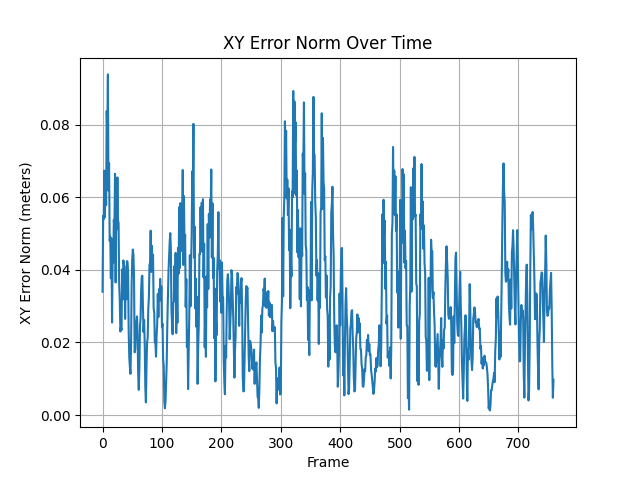
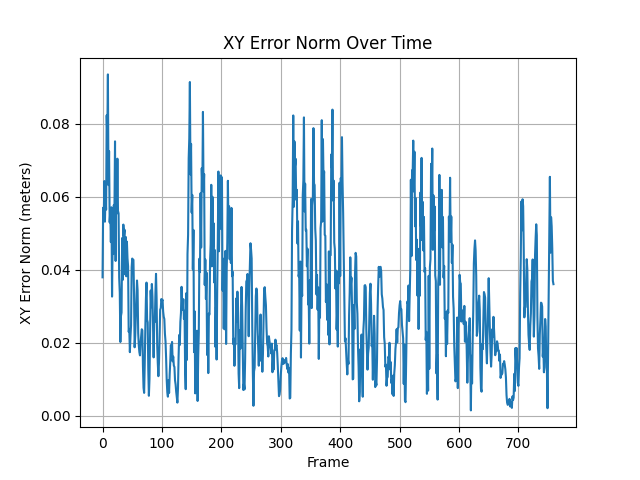
best param

Changed region(s): [[0.0625, 0.1875, 0.9062, 0.875], [0.0625, 0.375, 0.125, 0.4375]]

diff --git a/source/ros2/isaac-ros/g1_standalone_v2_14dof_nav_heuristic_test_offset.py b/source/ros2/isaac-ros/g1_standalone_v2_14dof_nav_heuristic_test_offset.py
@@ -806,7 +806,7 @@ while simulation_app.is_running():
                 vel_command_b[0] = np.clip(-1.5 * MAX_LIN_VEL * np.sqrt(np.abs(pos_command_b[0] / SLOW_BOUND)), -MAX_LIN_VEL, 0.0)
             # Y > 0
             if pos_command_b[1] >= 0.:
-                vel_command_b[1] = np.clip(MAX_LIN_VEL * np.sqrt(np.abs(pos_command_b[1] / SLOW_BOUND)), 0.0, MAX_LIN_VEL)
+                vel_command_b[1] = np.clip(1.5 * MAX_LIN_VEL * np.sqrt(np.abs(pos_command_b[1] / SLOW_BOUND)), 0.0, MAX_LIN_VEL)
             # Y < 0
             if pos_command_b[1] < 0.:
                 vel_command_b[1] = np.clip(-MAX_LIN_VEL * np.sqrt(np.abs(pos_command_b[1] / SLOW_BOUND)), -MAX_LIN_VEL, 0.0)
